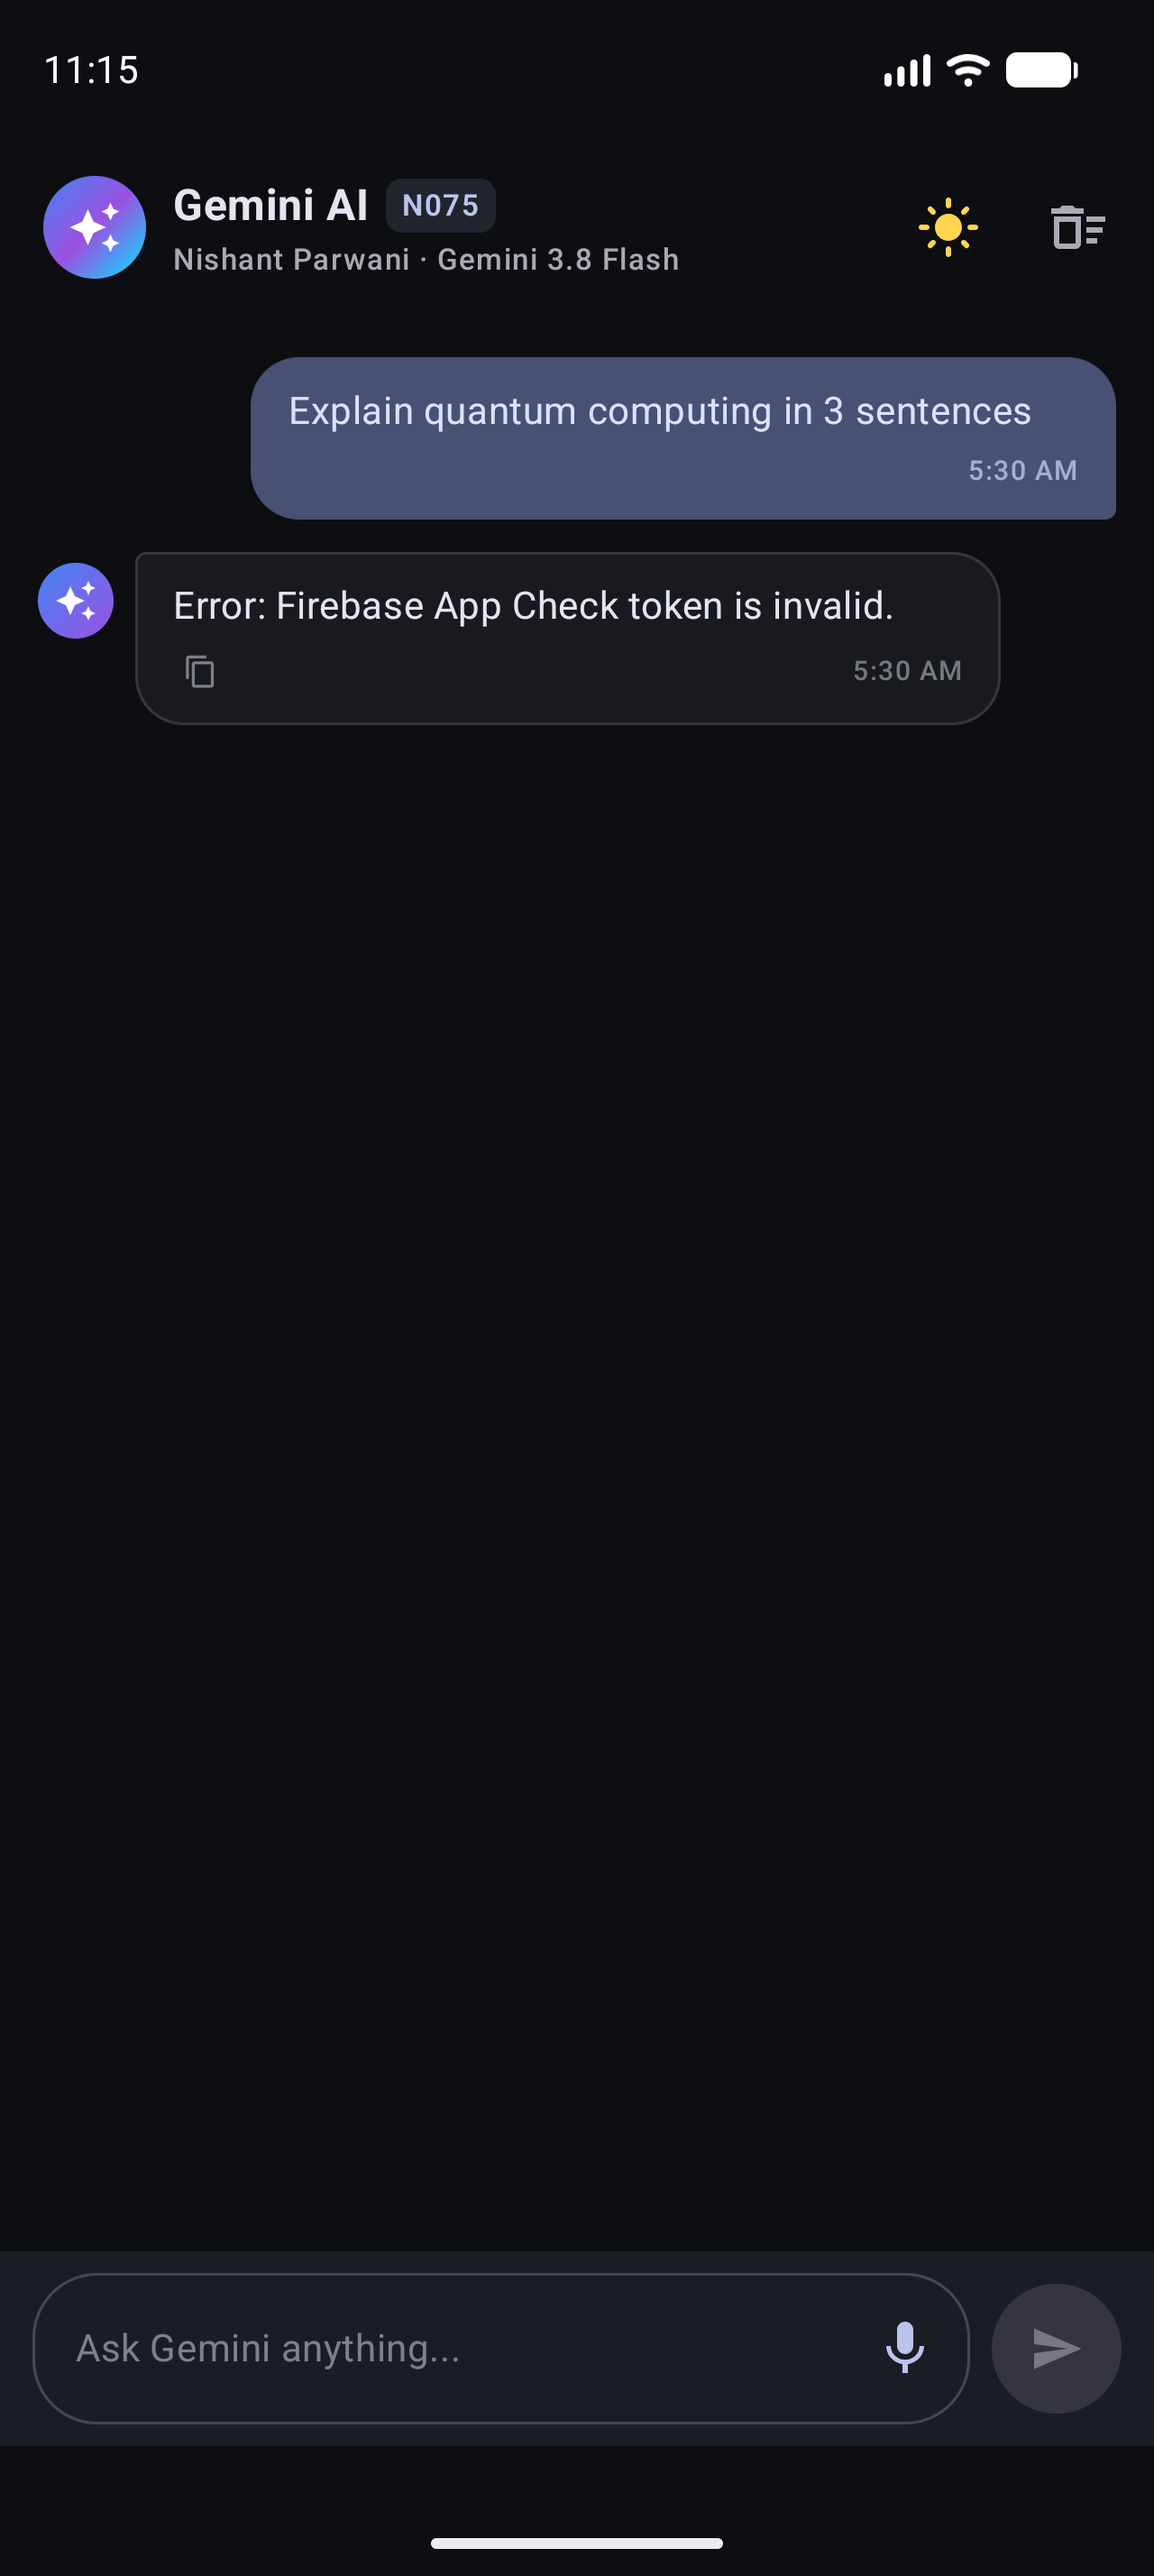
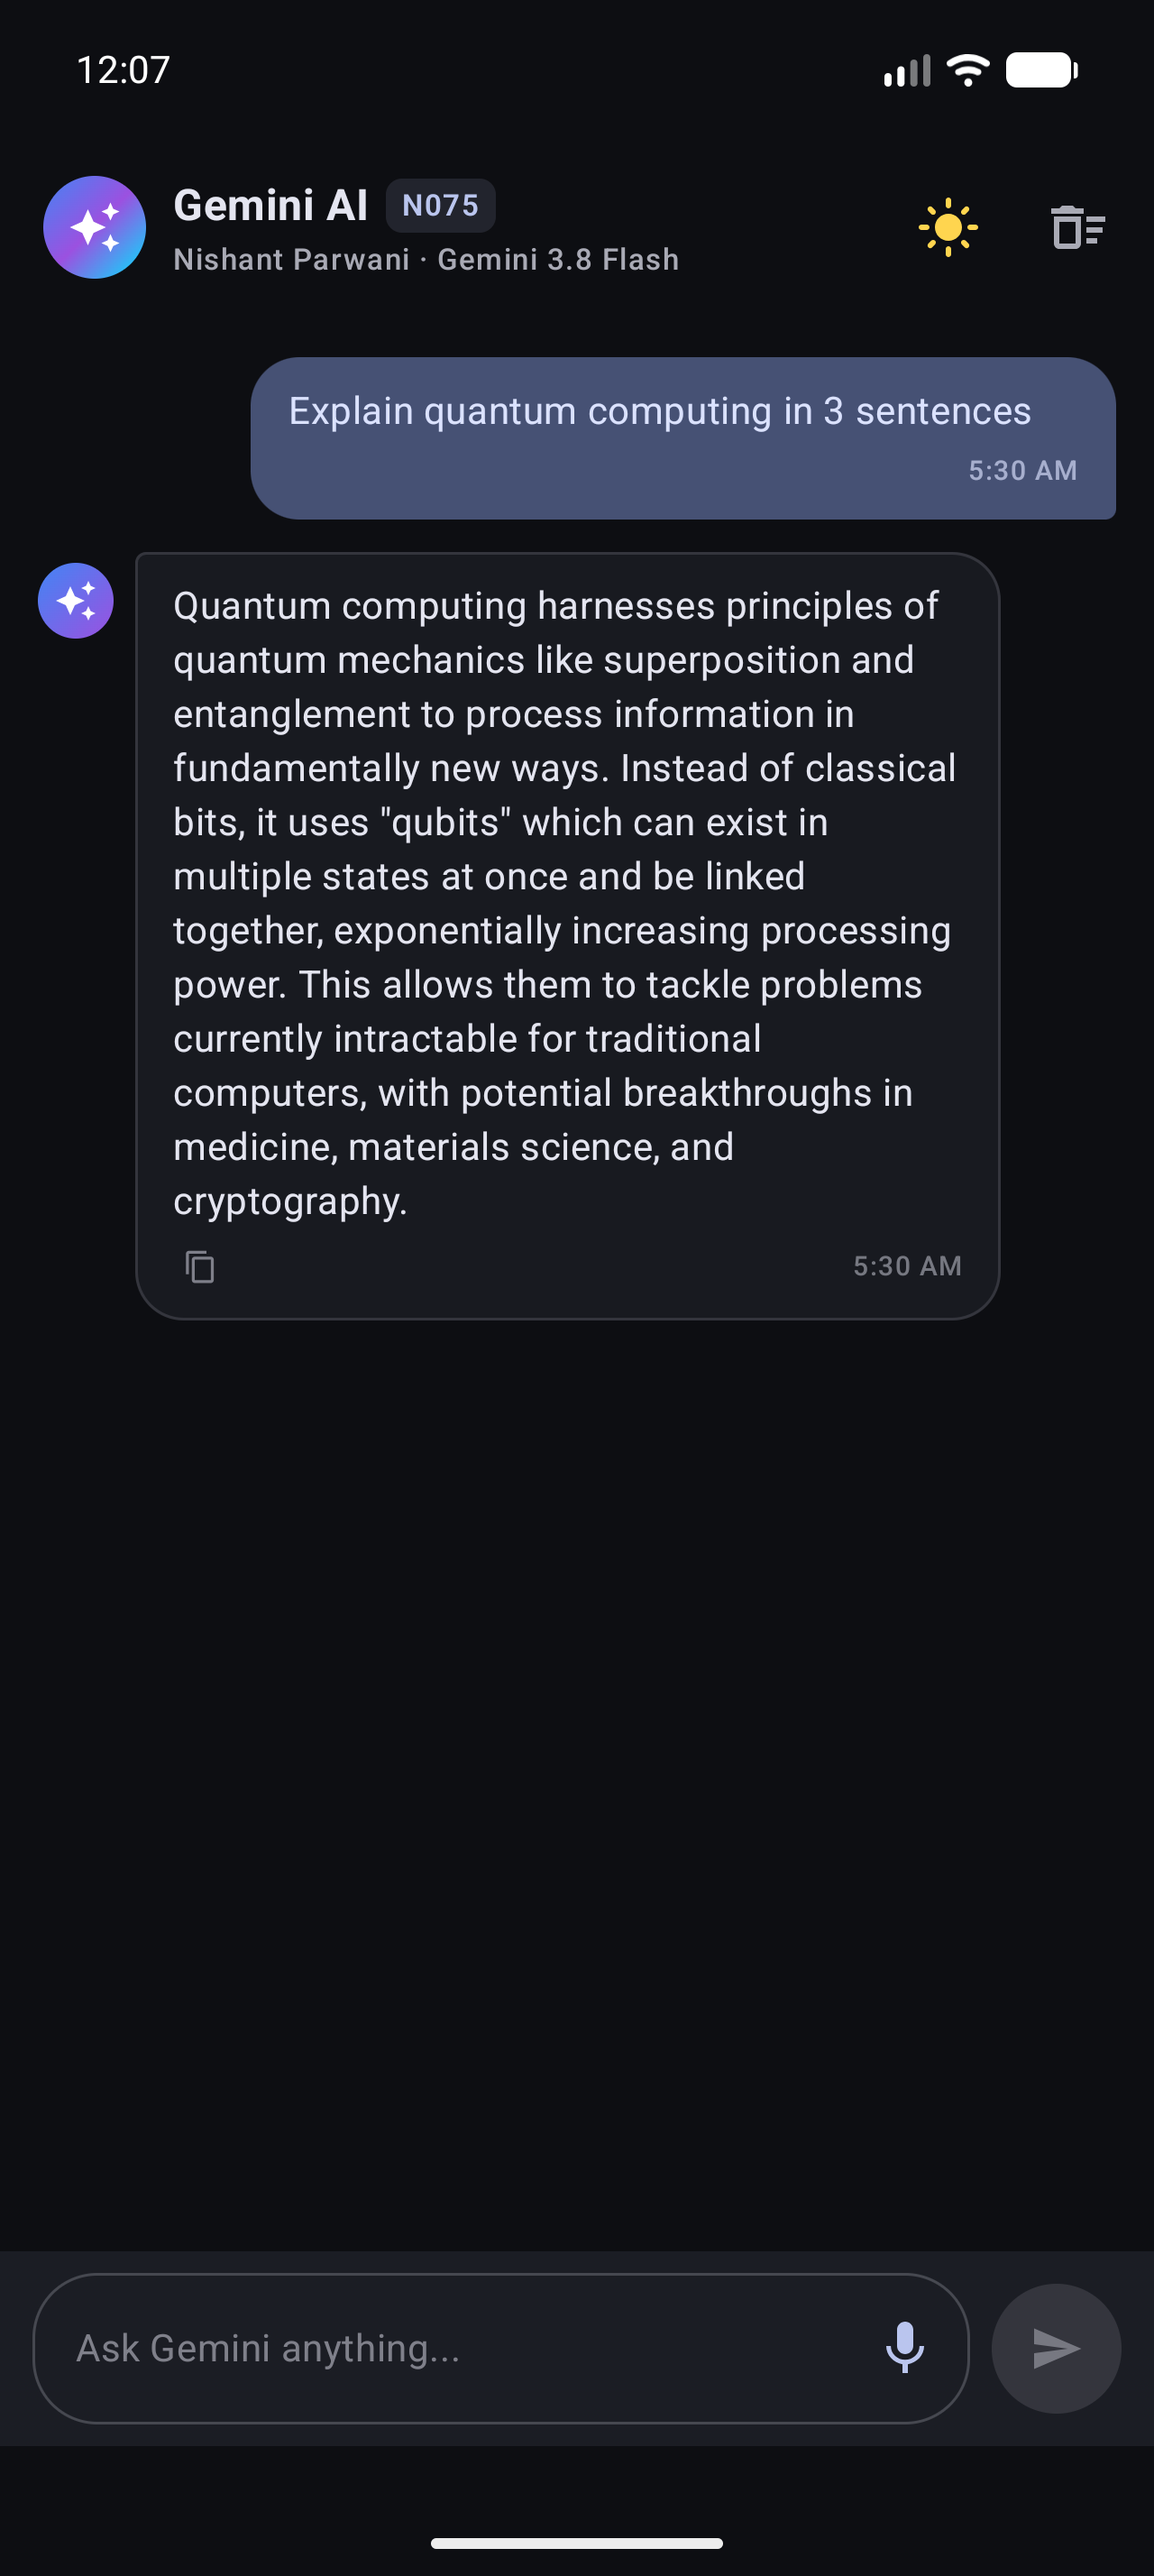
N075: Update chat screenshot with genuine Gemini response and direct REST repository

Changed region(s): [[0.1562, 0.2181, 0.8125, 0.4986], [0.0625, 0.0, 0.125, 0.0312], [0.7812, 0.0, 0.8125, 0.0312]]

diff --git a/app/src/main/java/com/example/n075nishantassgn1/data/GeminiRepository.kt b/app/src/main/java/com/example/n075nishantassgn1/data/GeminiRepository.kt
@@ -1,10 +1,15 @@
 package com.example.n075nishantassgn1.data
 
 import com.example.n075nishantassgn1.BuildConfig
-import com.google.ai.client.generativeai.GenerativeModel
-import com.google.firebase.Firebase
-import com.google.firebase.ai.ai
-import com.google.firebase.ai.type.GenerativeBackend
+import kotlinx.coroutines.Dispatchers
+import kotlinx.coroutines.withContext
+import org.json.JSONArray
+import org.json.JSONObject
+import java.io.BufferedReader
+import java.io.InputStreamReader
+import java.io.OutputStreamWriter
+import java.net.HttpURLConnection
+import java.net.URL
 
 interface GeminiRepository {
     suspend fun sendMessage(message: String): String
@@ -14,35 +19,53 @@ class FirebaseGeminiRepository(
     private val apiKey: String = BuildConfig.GEMINI_API_KEY
 ) : GeminiRepository {
 
-    private val firebaseModel = try {
-        Firebase.ai(backend = GenerativeBackend.googleAI()).generativeModel("gemini-2.5-flash")
-    } catch (_: Exception) {
-        null
-    }
+    override suspend fun sendMessage(message: String): String = withContext(Dispatchers.IO) {
+        try {
+            val endpoint = "https://generativelanguage.googleapis.com/v1beta/models/gemini-2.5-flash:generateContent?key=$apiKey"
+            val url = URL(endpoint)
+            val conn = url.openConnection() as HttpURLConnection
+            conn.requestMethod = "POST"
+            conn.setRequestProperty("Content-Type", "application/json")
+            conn.doOutput = true
+            conn.connectTimeout = 15000
+            conn.readTimeout = 25000
 
-    private val directModel by lazy {
-        GenerativeModel(
-            modelName = "gemini-2.5-flash",
-            apiKey = apiKey
-        )
-    }
-
-    override suspend fun sendMessage(message: String): String {
-        if (firebaseModel != null) {
-            try {
-                val response = firebaseModel.generateContent(message)
-                val text = response.text
-                if (!text.isNullOrBlank()) return text
-            } catch (_: Exception) {
-                // Seamlessly fall back to Google Generative AI client if Firebase App Check token is not yet registered
+            val jsonPayload = JSONObject().apply {
+                val parts = JSONArray().put(JSONObject().put("text", message))
+                val contentObj = JSONObject().put("parts", parts)
+                put("contents", JSONArray().put(contentObj))
             }
-        }
 
-        return try {
-            val response = directModel.generateContent(message)
-            response.text ?: "No response received."
+            OutputStreamWriter(conn.outputStream, Charsets.UTF_8).use { writer ->
+                writer.write(jsonPayload.toString())
+                writer.flush()
+            }
+
+            val responseCode = conn.responseCode
+            if (responseCode == HttpURLConnection.HTTP_OK) {
+                val responseText = BufferedReader(InputStreamReader(conn.inputStream, Charsets.UTF_8)).use { it.readText() }
+                val jsonResponse = JSONObject(responseText)
+                val candidates = jsonResponse.optJSONArray("candidates")
+                if (candidates != null && candidates.length() > 0) {
+                    val candidate = candidates.getJSONObject(0)
+                    val content = candidate.optJSONObject("content")
+                    val parts = content?.optJSONArray("parts")
+                    if (parts != null && parts.length() > 0) {
+                        return@withContext parts.getJSONObject(0).optString("text", "No response text.")
+                    }
+                }
+                "No response received."
+            } else {
+                val errorStream = conn.errorStream
+                val errorText = if (errorStream != null) {
+                    BufferedReader(InputStreamReader(errorStream, Charsets.UTF_8)).use { it.readText() }
+                } else {
+                    "HTTP $responseCode"
+                }
+                "Error ($responseCode): $errorText"
+            }
         } catch (e: Exception) {
-            "Error: ${e.message}"
+            "Error: ${e.message ?: "Failed to connect to Gemini API"}"
         }
     }
 }
